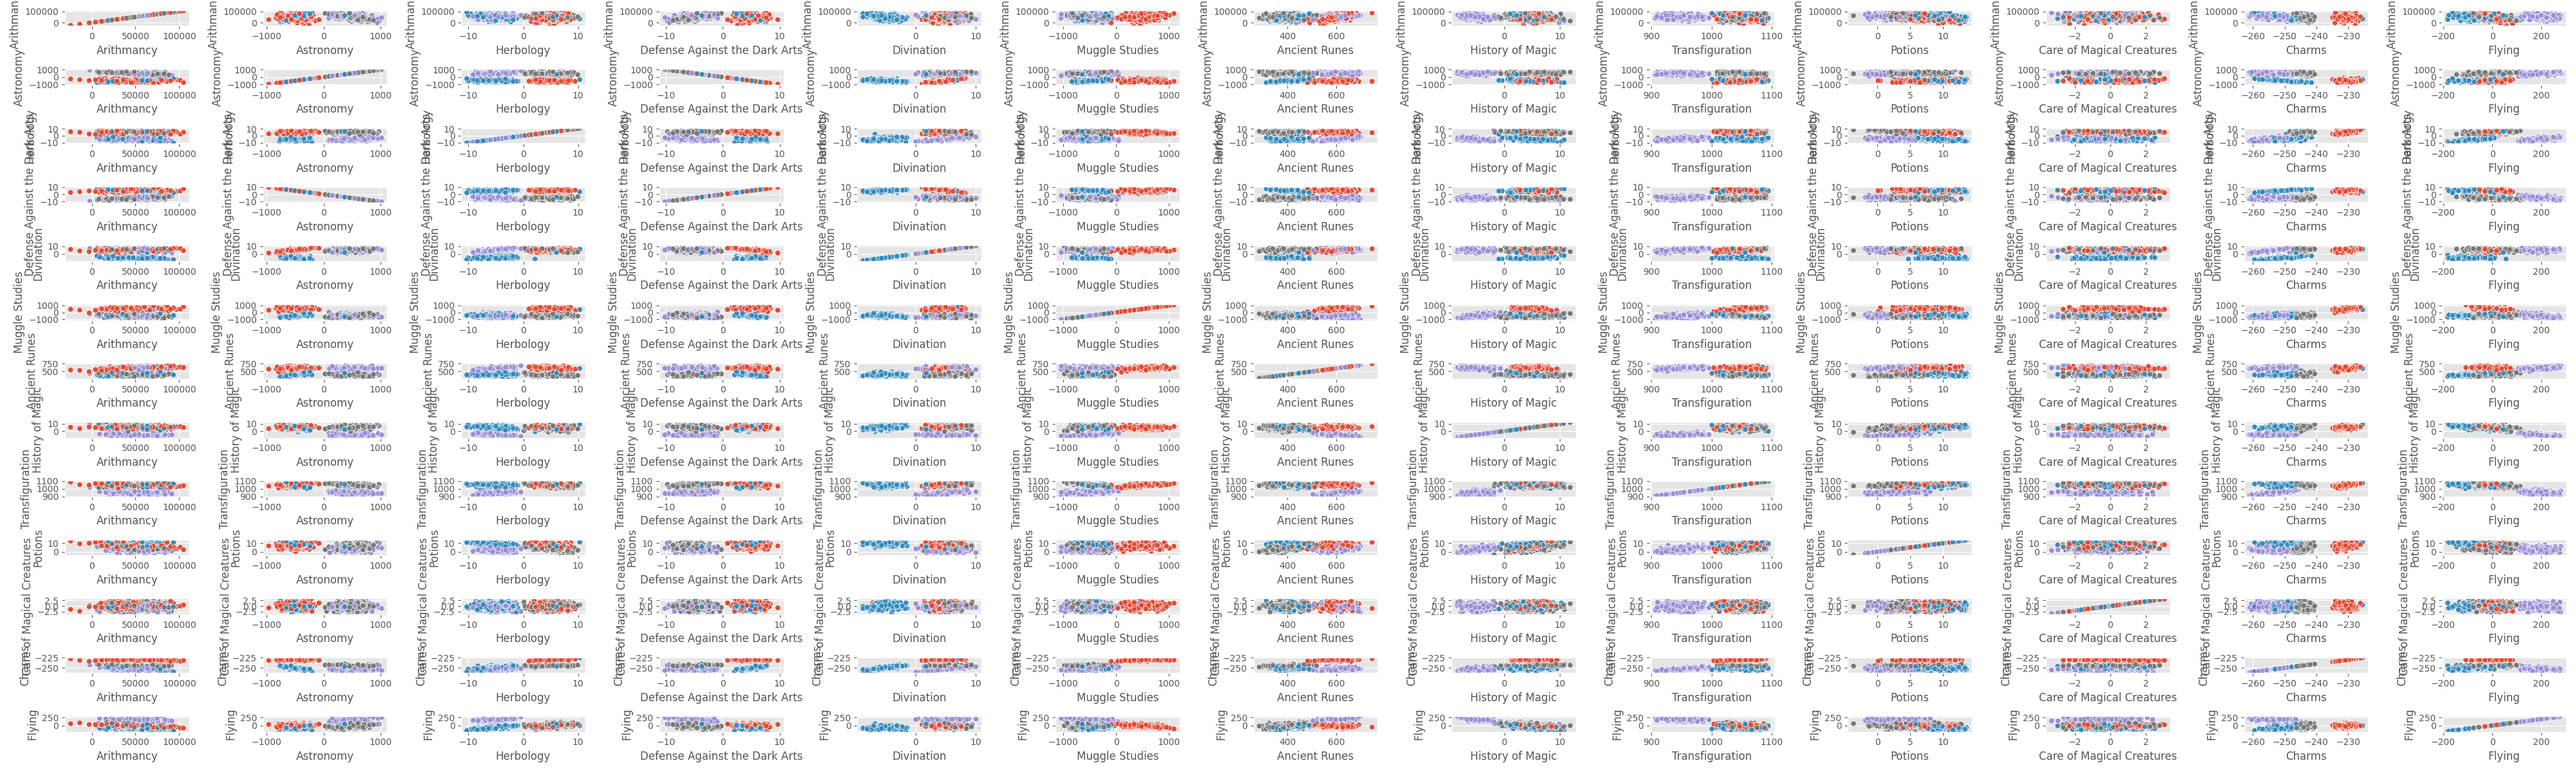
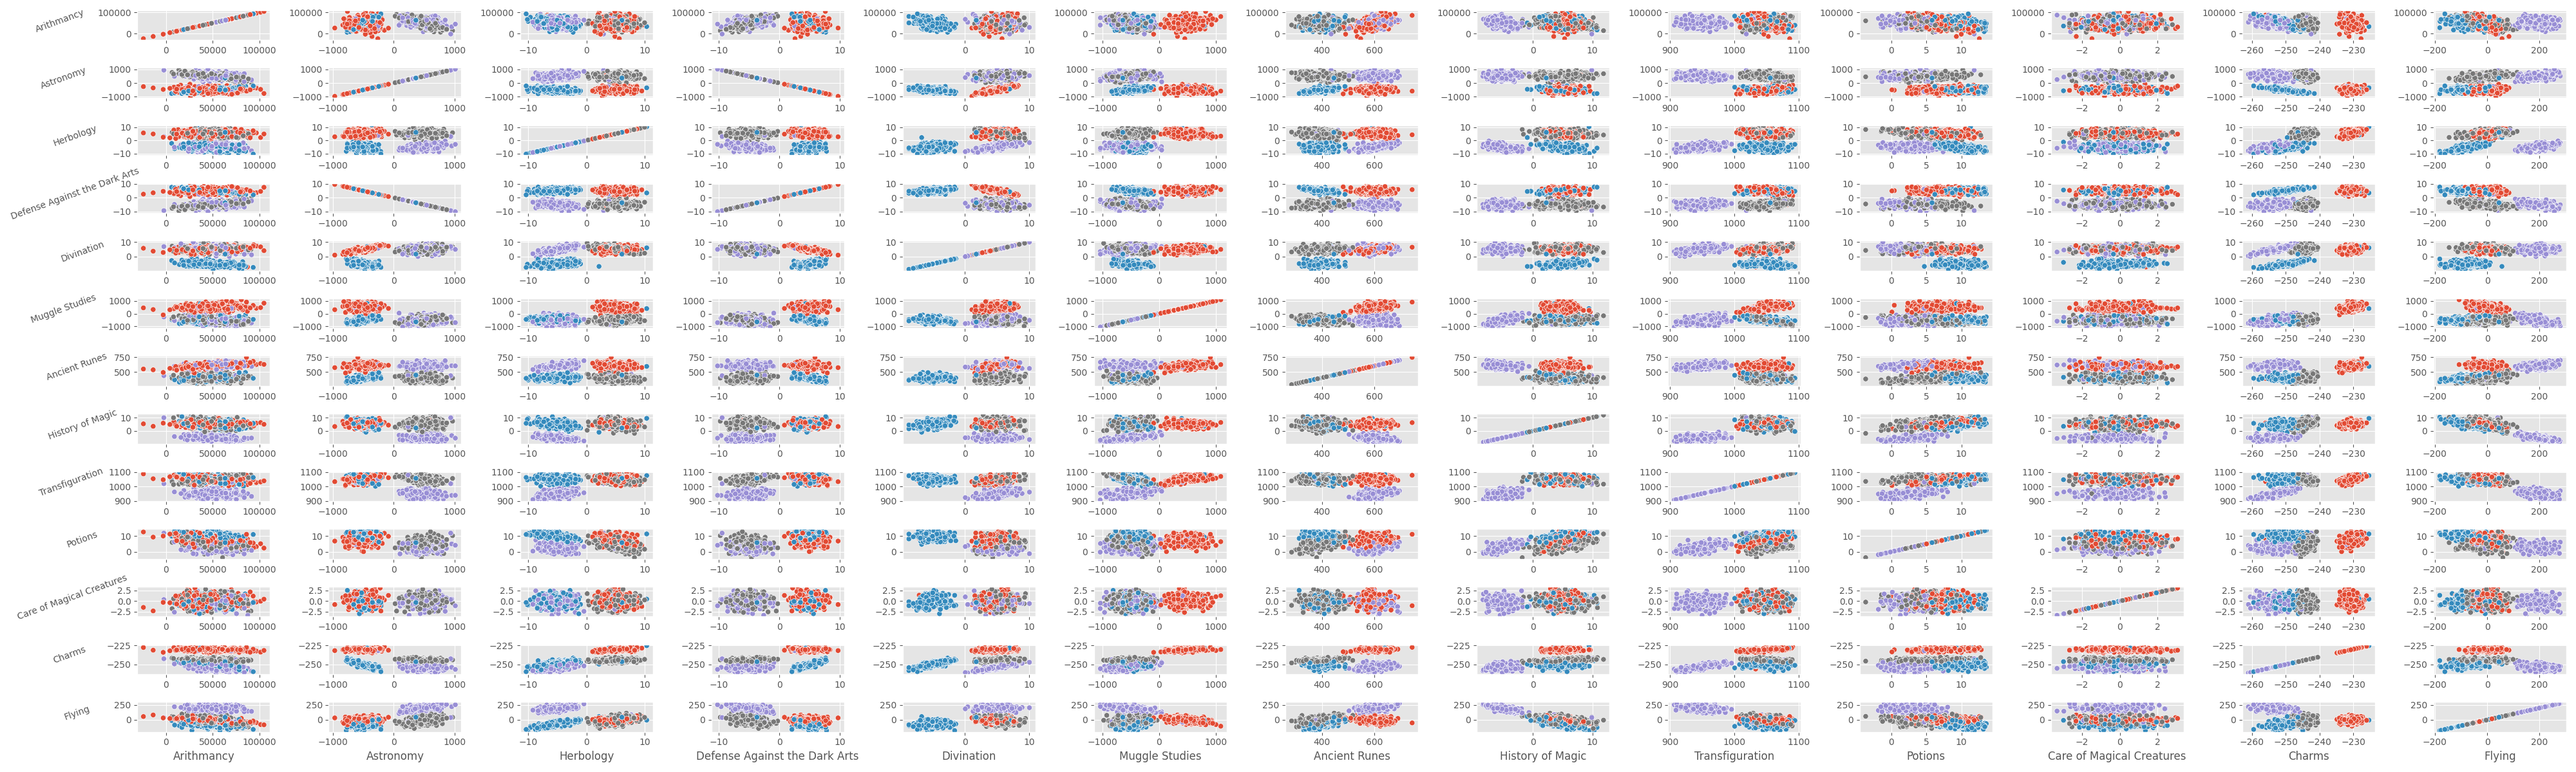
✅: Rotate y-labels of pair plot

diff --git a/ScatterPlot.py b/ScatterPlot.py
@@ -10,15 +10,16 @@ class ScatterPlot:
         self.df_only_nb = self.df.iloc[:, 6:]
 
     def render(self):
-        nb_col = 13
-        nb_row = 13
+        nb_col = nb_row = len(self.df_only_nb.columns)
         plt.style.use('ggplot')
-        _, ax = plt.subplots(nb_row, nb_col, figsize=(40, 12))
+        _, ax = plt.subplots(nb_row, nb_col, figsize=(40, 12), tight_layout=True)
         for i, feature_1 in enumerate(self.df_only_nb):
             for j, feature_2 in enumerate(self.df_only_nb):
-                # ax = ax[i, j]
-                sns.scatterplot(data = self.df, x = feature_2, y = feature_1, hue='Hogwarts House', ax=ax[i, j], legend=False)
-                # plot.scatter(self.df[feature_1], self.df[feature_2])
+                plot = ax[i, j]
+                sns.scatterplot(data = self.df, x = feature_2, y = feature_1, hue='Hogwarts House', ax=plot, legend=False)
+                if j != 0: plot.yaxis.label.set_visible(False)
+                if i != 12: plot.xaxis.label.set_visible(False)
+                plot.set_ylabel(plot.get_ylabel(), rotation=20, fontsize=10, labelpad=40)
         save_plot('scatter_plot')
         plt.show()
 
